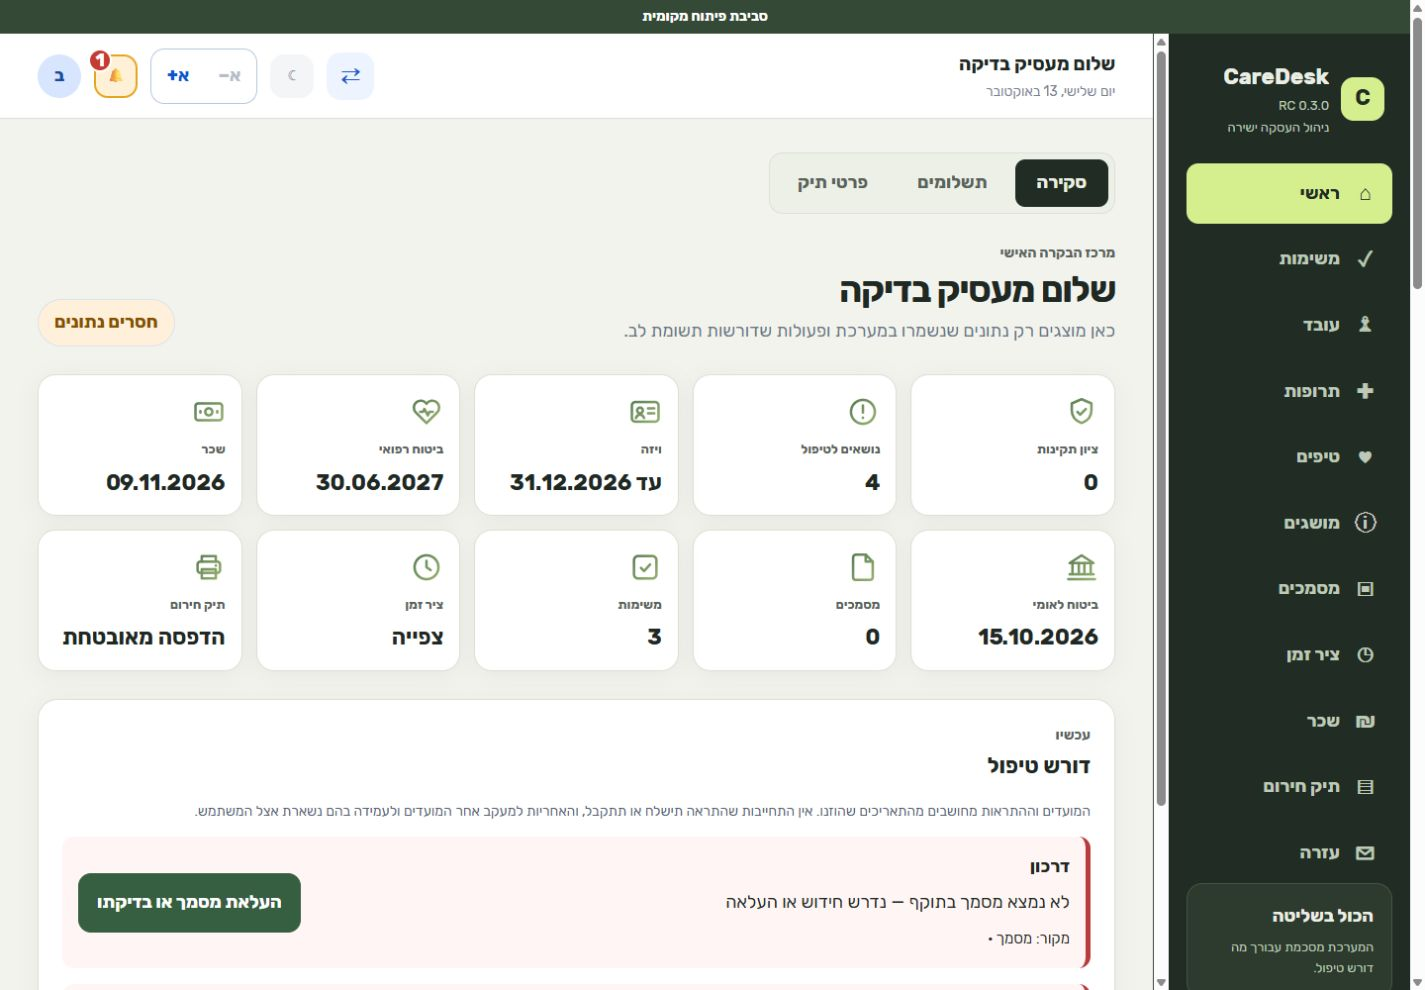
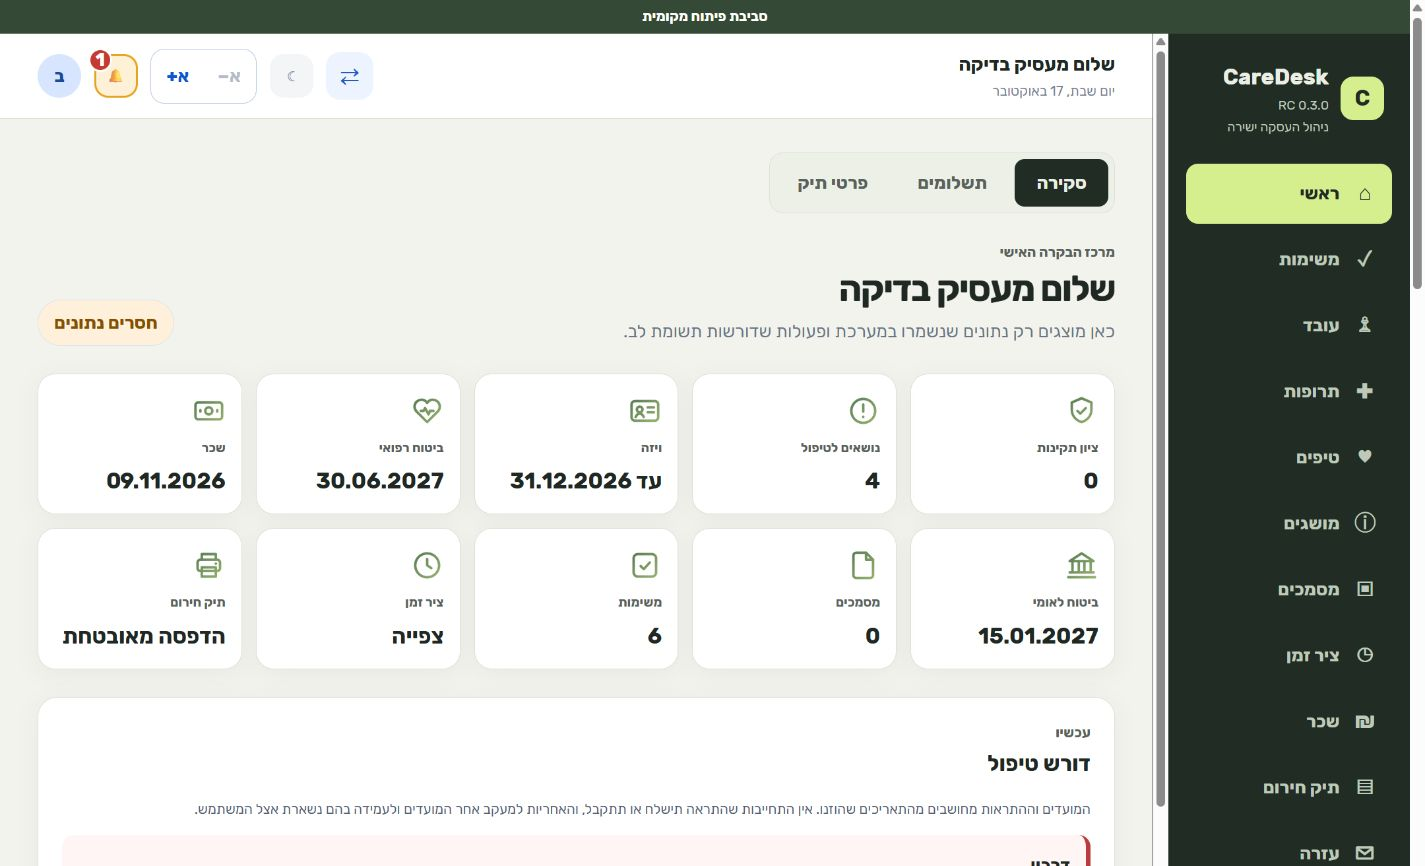
Fix isolated UX V2 desktop and mobile visual issues

diff --git a/apps/web/src/ux-v2/prototype.css b/apps/web/src/ux-v2/prototype.css
@@ -18,6 +18,7 @@
   --cd-sidebar-text: #ebeee4;
   --cd-sidebar-muted: #bec9b9;
   --cd-highlight: #d5ee8e;
+  --ux-on-primary: #fff;
 }
 :root.ux-v2[data-theme='dark'] {
   --cd-ink: #eef1e7;
@@ -25,7 +26,7 @@
   --cd-primary: #c6e38a;
   --cd-primary-hover: #d7eeab;
   --cd-primary-soft: #303f29;
-  --cd-on-accent: #202d1b;
+  --ux-on-primary: #202d1b;
   --cd-surface: #232b25;
   --cd-canvas: #181e19;
   --cd-border: #3d493c;
@@ -61,9 +62,16 @@
 }
 .ux-v2 .brand,
 .ux-v2 .brand strong {
-  color: var(--cd-sidebar-text);
+  color: var(--cd-ink);
 }
 .ux-v2 .brand small {
+  color: var(--cd-muted);
+}
+.ux-v2 .sidebar .brand,
+.ux-v2 .sidebar .brand strong {
+  color: var(--cd-sidebar-text);
+}
+.ux-v2 .sidebar .brand small {
   color: var(--cd-sidebar-muted);
 }
 .ux-v2 .sidebar nav a {
@@ -157,7 +165,7 @@
 }
 .ux-v2 .primary-button {
   background: var(--cd-primary);
-  color: var(--cd-on-accent);
+  color: var(--ux-on-primary);
   border-radius: 13px;
   box-shadow: none;
 }
@@ -186,7 +194,7 @@
 }
 @media (min-width: 1180px) {
   .ux-v2 .tile-grid {
-    grid-template-columns: repeat(5, minmax(0, 1fr));
+    grid-template-columns: repeat(auto-fit, minmax(180px, 1fr));
   }
   .ux-v2 .nav-tile {
     padding: 20px 16px;
@@ -201,14 +209,207 @@
   background: #344335;
 }
 .ux-v2 .app-frame {
-  padding-block-start: 34px;
+  padding-block-start: calc(34px / var(--ui-scale));
 }
 .ux-v2 .topbar {
-  top: 34px;
+  top: calc(34px / var(--ui-scale));
 }
 .ux-v2 .sidebar {
-  inset-block-start: 34px;
-  height: calc(100vh - 34px);
+  /* Desktop font scaling zooms the shell. Keep its fixed menu in the viewport. */
+  inset-block-start: calc(34px / var(--ui-scale));
+  height: calc((100dvh - 34px) / var(--ui-scale));
+}
+
+/* The case picker lives outside the dark sidebar. Its brand and surfaces
+   need the same readable foregrounds as the rest of the light/dark canvas. */
+.ux-v2 .clients-landing {
+  background: var(--cd-canvas);
+  color: var(--cd-ink);
+}
+.ux-v2 .clients-hero {
+  grid-template-columns: minmax(0, 1fr);
+  gap: 24px;
+}
+.ux-v2 .clients-hero h1 {
+  font-size: clamp(32px, 4vw, 48px);
+  line-height: 1.25;
+}
+.ux-v2 .clients-hero p,
+.ux-v2 .client-card dt {
+  color: var(--cd-muted);
+}
+.ux-v2 .clients-hero-actions {
+  width: 100%;
+  max-width: 780px;
+}
+.ux-v2 .client-card {
+  border-color: var(--cd-border);
+  border-radius: 20px;
+  box-shadow: var(--cd-shadow);
+}
+.ux-v2 .client-avatar {
+  background: var(--cd-primary-soft);
+  color: var(--cd-accent-on-soft);
+}
+.ux-v2 .client-card dl > div {
+  border-color: var(--cd-border);
+}
+.ux-v2 .client-more-actions summary,
+.ux-v2 .clients-empty > span {
+  color: var(--cd-accent-on-soft);
+}
+.ux-v2 .local-data-notice {
+  flex-wrap: wrap;
+  background: var(--cd-surface-raised);
+  border: 1px solid var(--cd-border);
+  color: var(--cd-muted);
+}
+.ux-v2 .local-data-notice strong {
+  color: var(--cd-ink);
+}
+
+/* Native choices keep their checked state and keyboard behavior, with the
+   full label providing the touch target rather than a text-field-sized box. */
+.ux-v2 input[type='checkbox'],
+.ux-v2 input[type='radio'] {
+  display: inline-block;
+  width: 24px;
+  height: 24px;
+  min-height: 24px;
+  flex: 0 0 24px;
+  margin: 0;
+  padding: 0;
+  accent-color: var(--cd-primary);
+}
+.ux-v2 .readable-form label:has(> input[type='checkbox']),
+.ux-v2 .readable-form label:has(> input[type='radio']) {
+  display: flex;
+  align-items: center;
+  gap: 10px;
+  min-height: 48px;
+}
+.ux-v2 .medications-times {
+  border-color: var(--cd-border);
+}
+.ux-v2 .readable-form .medications-times label:has(> input[type='checkbox']) {
+  display: inline-flex;
+  margin-inline-end: 18px;
+}
+.ux-v2 .medications-times small,
+.ux-v2 .readable-form > p:not(.action-notice) {
+  color: var(--cd-muted);
+}
+.ux-v2 .medications-page {
+  gap: 20px;
+}
+.ux-v2 .medications-page > h1 {
+  margin-block: 0;
+  line-height: 1.25;
+}
+.ux-v2 .medications-page > section,
+.ux-v2 .medications-page > form {
+  padding: 24px;
+  border: 1px solid var(--cd-border);
+  border-radius: 20px;
+  background: var(--cd-surface);
+}
+.ux-v2 .nav-tile {
+  min-width: 0;
+}
+.ux-v2 #main-content,
+.ux-v2 #dashboard-overview,
+.ux-v2 #dashboard-payments,
+.ux-v2 #dashboard-case {
+  scroll-margin-block-start: 136px;
+}
+.ux-v2 .nav-tile-value {
+  max-width: 100%;
+  overflow-wrap: anywhere;
+}
+.ux-v2 button.text-link {
+  min-height: 48px;
+  padding: 8px 12px;
+  border: 0;
+  border-radius: 10px;
+  background: transparent;
+  color: var(--cd-accent-on-soft);
+  font: inherit;
+  font-weight: 700;
+}
+.ux-v2 .filter-row button {
+  border-color: var(--cd-border);
+  background: var(--cd-surface);
+  color: var(--cd-ink);
+}
+.ux-v2 .filter-row button.active {
+  border-color: var(--cd-primary);
+  background: var(--cd-primary-soft);
+  color: var(--cd-accent-on-soft);
+}
+.ux-v2 .task-card {
+  border-color: var(--cd-border);
+}
+.ux-v2 .task-card.done {
+  background: var(--cd-surface-raised);
+}
+.ux-v2 .mobile-more-menu,
+.ux-v2 .mobile-more-menu a,
+.ux-v2 .mobile-more-menu button {
+  background: var(--cd-surface);
+  color: var(--cd-ink);
+  border-color: var(--cd-border);
+}
+.ux-v2 .mobile-more-menu a.active,
+.ux-v2 .mobile-nav button.active {
+  background: var(--cd-primary-soft);
+  color: var(--cd-accent-on-soft);
+}
+
+@media (max-width: 760px) {
+  /* The banner is already in flow on mobile; a second inset created a gap. */
+  .ux-v2 .app-frame {
+    padding-block-start: 0;
+  }
+  .ux-v2 .topbar {
+    top: 48px;
+  }
+  .ux-v2 .clients-hero-actions {
+    align-items: stretch;
+  }
+  .ux-v2 .clients-hero-actions > .primary-button,
+  .ux-v2 .clients-hero-actions > .secondary-button,
+  .ux-v2 .clients-hero-actions > .sign-out-button {
+    /* A horizontal flex basis becomes the height when this row stacks. */
+    flex: 0 0 auto;
+    width: 100%;
+    min-width: 0;
+    height: auto;
+    min-height: 58px;
+    padding-block: 12px;
+  }
+  .ux-v2 .dash-tabs {
+    width: 100%;
+    flex-wrap: wrap;
+  }
+  .ux-v2 .dash-tab {
+    flex: 1 0 auto;
+    min-width: 0;
+    max-width: 100%;
+    padding-inline: 6px;
+    white-space: normal;
+  }
+  .ux-v2 .nav-tile {
+    padding: 18px;
+    gap: 8px;
+  }
+  .ux-v2 .medications-page > section,
+  .ux-v2 .medications-page > form {
+    padding: 18px;
+  }
+  .ux-v2 .mobile-more-menu {
+    max-height: calc(100dvh - 160px);
+    overflow-y: auto;
+  }
 }
 @media print {
   .ux-v2 .app-frame {

diff --git a/docs/design-system/caredesk-ux-v2.md b/docs/design-system/caredesk-ux-v2.md
@@ -12,7 +12,7 @@ The separate entry imports `apps/web/src/main.tsx` unchanged. It therefore uses
 the real App, AppShell, pages, translation resources, auth provider, storage,
 API client and business logic. `prototype.css` adds scoped visual overrides:
 neutral canvas, dark green navigation, lime selection accents, restrained card
-borders and shadows, and a five-column desktop tile grid. Existing dark mode,
+borders and shadows, and an adaptive desktop tile grid. Existing dark mode,
 font scaling, mobile navigation and focus behavior remain available. No text is
 hidden, replaced or generated with CSS. Production files and shared tokens have
 no changes relative to `origin/main`.
@@ -78,10 +78,52 @@ patched or hidden by the design layer. It needs a separate product fix.
 
 ## Review boundary
 
-Current baseline: origin/main 6394a22, merged into the isolated branch.
+Current baseline: origin/main de26938, synchronized into the isolated branch.
 No dependency on current launch, payroll or sponsor work. Shared design tokens,
 component contracts, product/legal authority and all production behavior remain
 unchanged. This document records the experimental visual proposal for human
 review; it grants no release or deployment approval.
 
 Validation result (2026-10-13): full `pnpm check` passed (1719 tests: 799 web, 433 API, plus workspace packages); separate preview build passed. Desktop 1440px and mobile 390px reviewed; 320px with enlarged text had no page-level horizontal overflow.
+
+## Visual review — 2026-10-17
+
+Reviewed the case picker, dashboard, tasks, standing medications, payroll,
+documents and settings at desktop (1440px) and mobile (390px) widths. Also
+checked the dashboard at 320px with the maximum existing text scale (1.3),
+desktop navigation at that scale, and the medication screen in dark mode.
+
+Only `apps/web/src/ux-v2/prototype.css` changed in this review:
+
+- Corrected the case picker's brand contrast, neutral surfaces and action-row
+  layout. Mobile actions now measure 58px high instead of inheriting a 170px
+  horizontal flex basis as their height.
+- Removed the duplicate mobile environment-banner inset. Desktop sidebar and
+  topbar insets account for the existing font zoom; the sidebar stays within
+  the viewport and its remaining links can scroll into view.
+- Restored native checkbox/radio dimensions to 24px, with labels retaining at
+  least a 48px touch target. Standing-medication forms have clearer grouping.
+- Let dashboard tabs wrap when enlarged text needs extra room. Adaptive tile
+  columns keep labels within their cards. CSS scroll margins keep the same
+  navigation targets below the sticky header.
+- Harmonized close buttons, task filters and the mobile overflow menu with
+  the existing preview palette. Kept the shared on-accent foreground intact
+  and scoped the light-green button foreground to preview primary buttons.
+
+The case picker and medication screen retained identical main-content text
+and control signatures in before/after browser comparisons. Original page,
+component, translation, routing, storage, API and domain files have no diff
+against `origin/main`. Existing task-title/date defects remain visible.
+
+Validation: full `pnpm check` passed again (1,719 tests); final preview build
+and CSS formatting check passed. No page-level or control horizontal overflow
+was found in the reviewed layouts. Task/document forms, native medication
+choices, original navigation, theme switching and text-scale controls were
+exercised without submitting real data.
+
+The active review session is at
+<http://127.0.0.1:5182/clients/ux-v2-demo>. The built preview remains available
+on port 4182. Both use the same isolated in-memory API on port 4183; existing
+browser workspaces are preserved. Additional case-picker and medication-form
+screenshots accompany the review artifacts. PR #134 remains a draft; no merge
+into main or production deployment was performed.

diff --git a/AGENT_STATUS.md b/AGENT_STATUS.md
@@ -17,7 +17,7 @@ UX V2 isolation note: the user explicitly authorized side-environment work along
 <!-- prettier-ignore -->
 | Workstream | Issue | Owner/Agent | Branch | PR | Status | Depends on | Parallel safe | Blocker | Next action |
 | --- | --- | --- | --- | --- | --- | --- | --- | --- | --- |
-| CareDesk UX V2 isolated prototype | #133 | Codex UX V2 | `feature/caredesk-ux-v2` | #134 (draft) | IN_REVIEW | — | yes | None; baseline 6394a22; pnpm check passed (1719 tests); existing task-title/date defect documented | Human review of visual-only revision in draft PR #134; no merge or production deployment |
+| CareDesk UX V2 isolated prototype | #133 | Codex UX V2 | `feature/caredesk-ux-v2` | #134 (draft) | IN_REVIEW | — | yes | None; baseline de26938; visual review complete; pnpm check passed (1719 tests) | Human review of CSS-only desktop/mobile repairs in draft PR #134; no merge into main or production deployment |
 | Current delivery coordination | — | Orchestrator | `main` | — | ACTIVE | — | n/a | None recorded | Assign each new task through an Issue and update this row set before parallel implementation |
 | Wave 3 canonical Product Intelligence closure | — | Codex primary | `codex/finalize-wave-3-closure-for-product-intelligence` | #48 | DONE | — | no | None; merged main CI succeeded at `a97f61f` | Retain as completed dependency evidence |
 | Final capability and production-readiness assessment | — | Codex primary | `codex/final-product-gap-production-readiness` | #50 | DONE | PR #48 | no | None; merged at `dc98410` | Retain as production-readiness scope authority |
